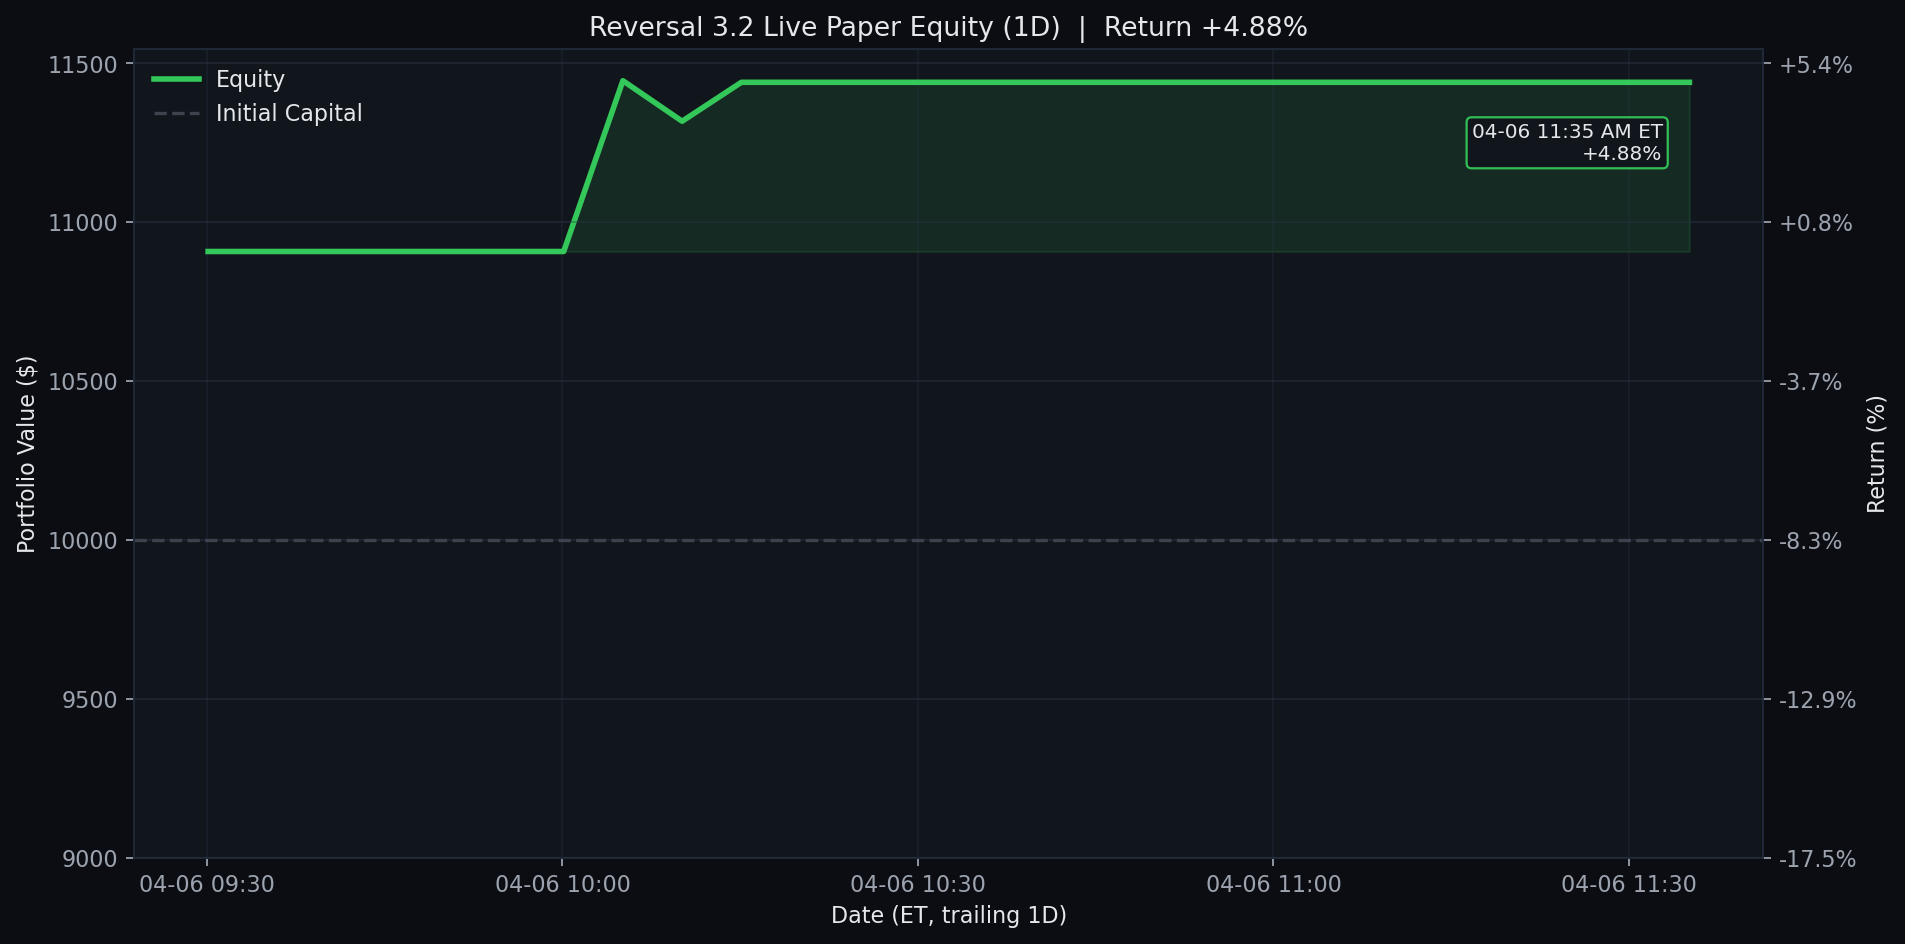
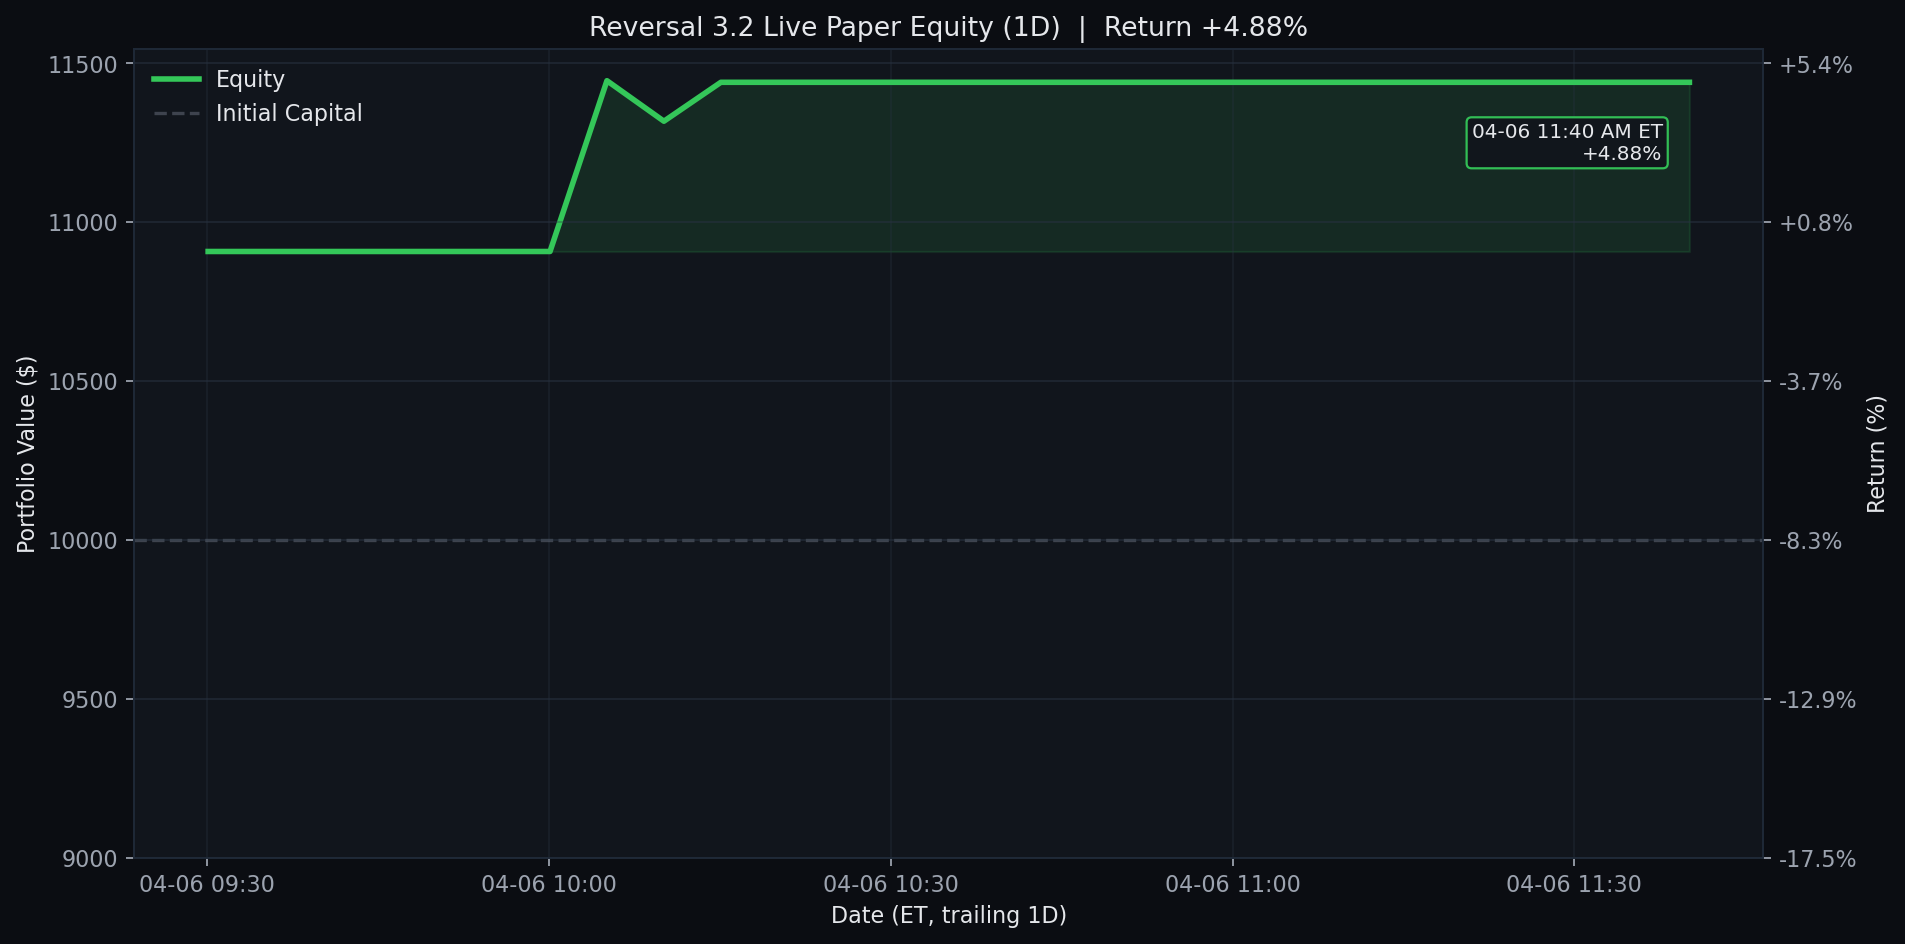
Update Reversal 3.2 live paper test 2026-04-06 11:40 ET

diff --git a/results/reversal_3_2_live/README.md b/results/reversal_3_2_live/README.md
@@ -1,6 +1,6 @@
 # Reversal 3.2 Live Paper Test
 
-Last updated (ET): `2026-04-06 11:35:05 EDT`
+Last updated (ET): `2026-04-06 11:40:05 EDT`
 Last processed slot: `manage_1130`
 
 ## Active Configuration
@@ -40,24 +40,25 @@ ticker    contract_symbol entry_trade_date_et exit_trade_date_et  entry_option_p
 
 ```text
 ticker  success_rate_%  matched_signals  current_drop_%  target_rebound_$  target_price  rolling_sigma_20d_%  call_candidate
-   HON          100.00               23            0.59              0.94        229.05                20.57            True
-  FTNT           93.02               43            0.67              0.38         82.37                30.26            True
-  FAST           91.89               37            0.52              0.17         46.23                21.85            True
-  CDNS           90.70               43            0.80              1.56        278.05                25.28            True
-  AVGO           89.74               39            0.67              1.48        313.92                41.04            True
-  SNPS           89.13               46            0.63              1.75        395.20                35.67            True
-  TMUS           86.96               23            1.02              1.43        200.79                22.45            True
-   LIN           85.19               27            0.50              1.76        501.85                19.40            True
-  TSLA           85.00               20            2.20              5.56        358.21                42.35            True
-  ASML           84.62               26            1.49             13.74       1311.34                51.28            True
-  CTSH           83.87               31            0.88              0.38         62.38                26.11            True
-   PEP           83.33               18            0.73              0.80        156.67                18.34            True
+   HON          100.00               22            0.65              1.04        229.01                20.57            True
+  FTNT           93.48               46            0.53              0.31         82.40                30.26            True
+  FAST           91.67               36            0.57              0.19         46.22                21.85            True
+  CDNS           90.70               43            0.79              1.54        278.06                25.28            True
+  SNPS           89.13               46            0.55              1.52        395.30                35.67            True
+  TMUS           85.71               21            1.06              1.49        200.76                22.45            True
+  ASML           85.19               27            1.39             12.83       1311.73                51.28            True
+  TSLA           85.00               20            2.17              5.48        358.24                42.35            True
+   LIN           85.00               20            0.73              2.58        501.49                19.40            True
+   PEP           82.35               17            0.80              0.88        156.63                18.34            True
+  CTSH           81.82               33            0.80              0.35         62.39                26.11            True
+  FANG          100.00               29            0.36              0.48        193.67                28.70           False
 ```
 
 ## Recent Events
 
 ```text
                     timestamp_et        slot   event_type                          detail
+2026-04-06T11:40:05.882469-04:00 manage_1130 slot_skipped {"reason": "already_processed"}
 2026-04-06T11:35:05.887081-04:00 manage_1130 slot_skipped {"reason": "already_processed"}
 2026-04-06T11:30:05.877701-04:00 manage_1130 slot_skipped {"reason": "already_processed"}
 2026-04-06T11:25:05.885117-04:00 manage_1130 slot_skipped {"reason": "already_processed"}
@@ -67,7 +68,6 @@ ticker  success_rate_%  matched_signals  current_drop_%  target_rebound_$  targe
 2026-04-06T10:55:05.885281-04:00 manage_1100 slot_skipped {"reason": "already_processed"}
 2026-04-06T10:40:05.887120-04:00 manage_1030 slot_skipped {"reason": "already_processed"}
 2026-04-06T10:35:05.885229-04:00 manage_1030 slot_skipped {"reason": "already_processed"}
-2026-04-06T10:30:05.886948-04:00 manage_1030 slot_skipped {"reason": "already_processed"}
 ```
 
 ## Equity Curves

diff --git a/README.md b/README.md
@@ -3,7 +3,7 @@
 <!-- reversal-3.2-live:start -->
 ## Reversal 3.2 Live Paper Test
 
-- Last updated (ET): `2026-04-06 11:35:05 EDT`
+- Last updated (ET): `2026-04-06 11:40:05 EDT`
 - Equity: `$11,440.00` | Realized: `$1,440.00` | Unrealized: `$0.00` | Open positions: `0`
 - Today closed trades: `1`
 - Current slot: `manage_1130`
